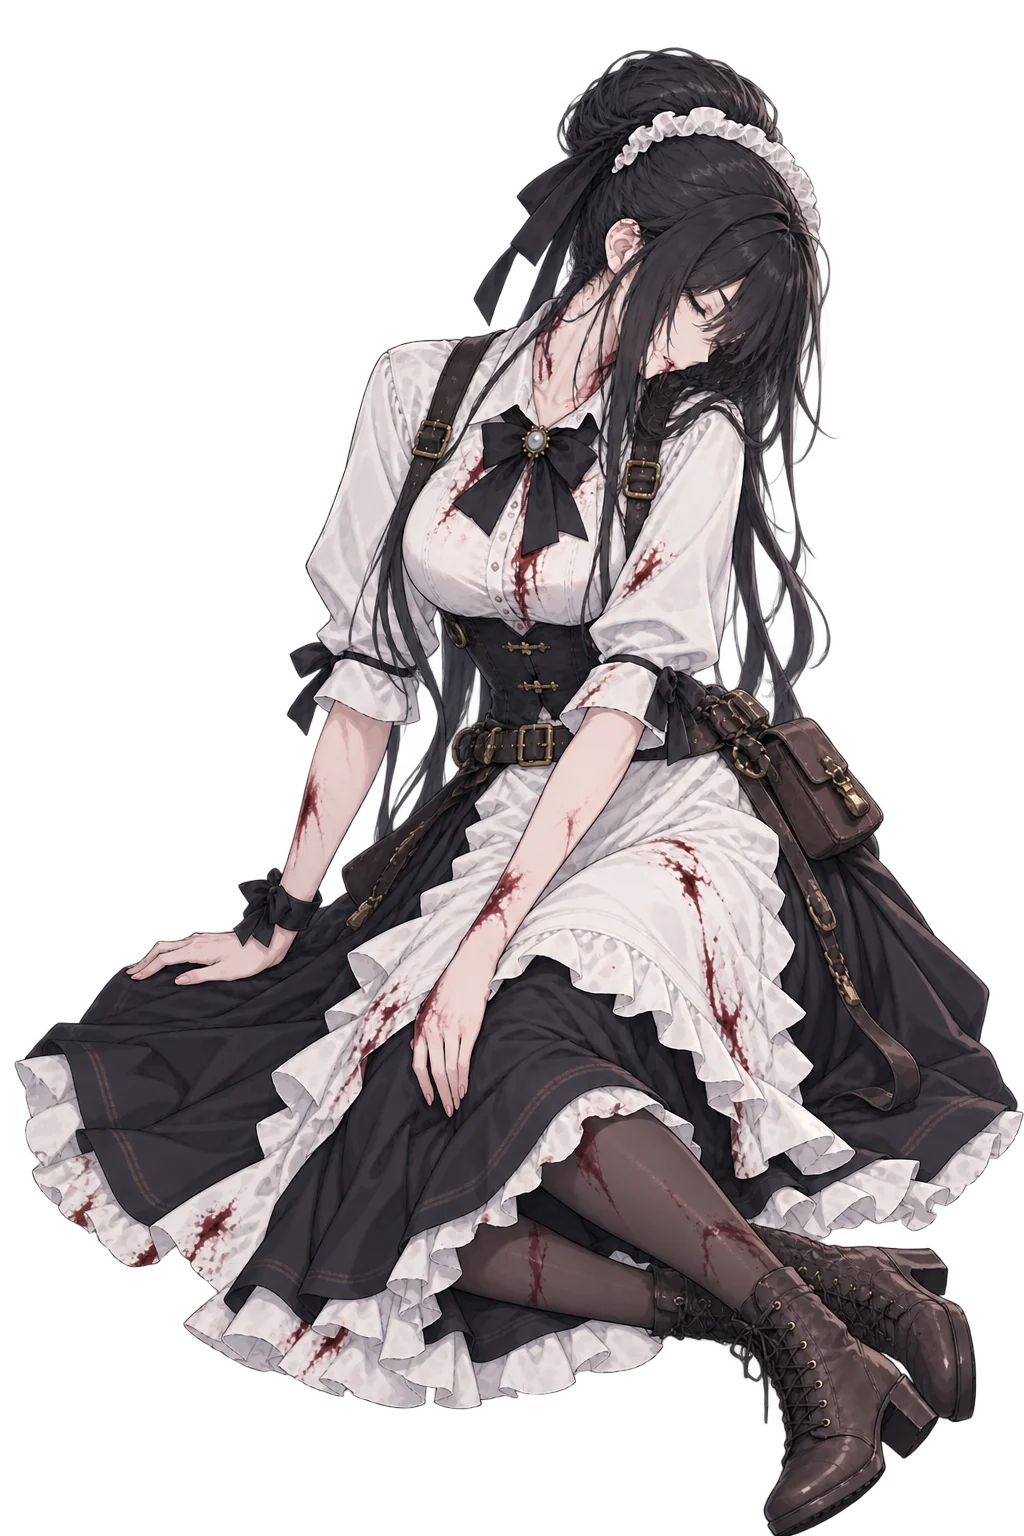
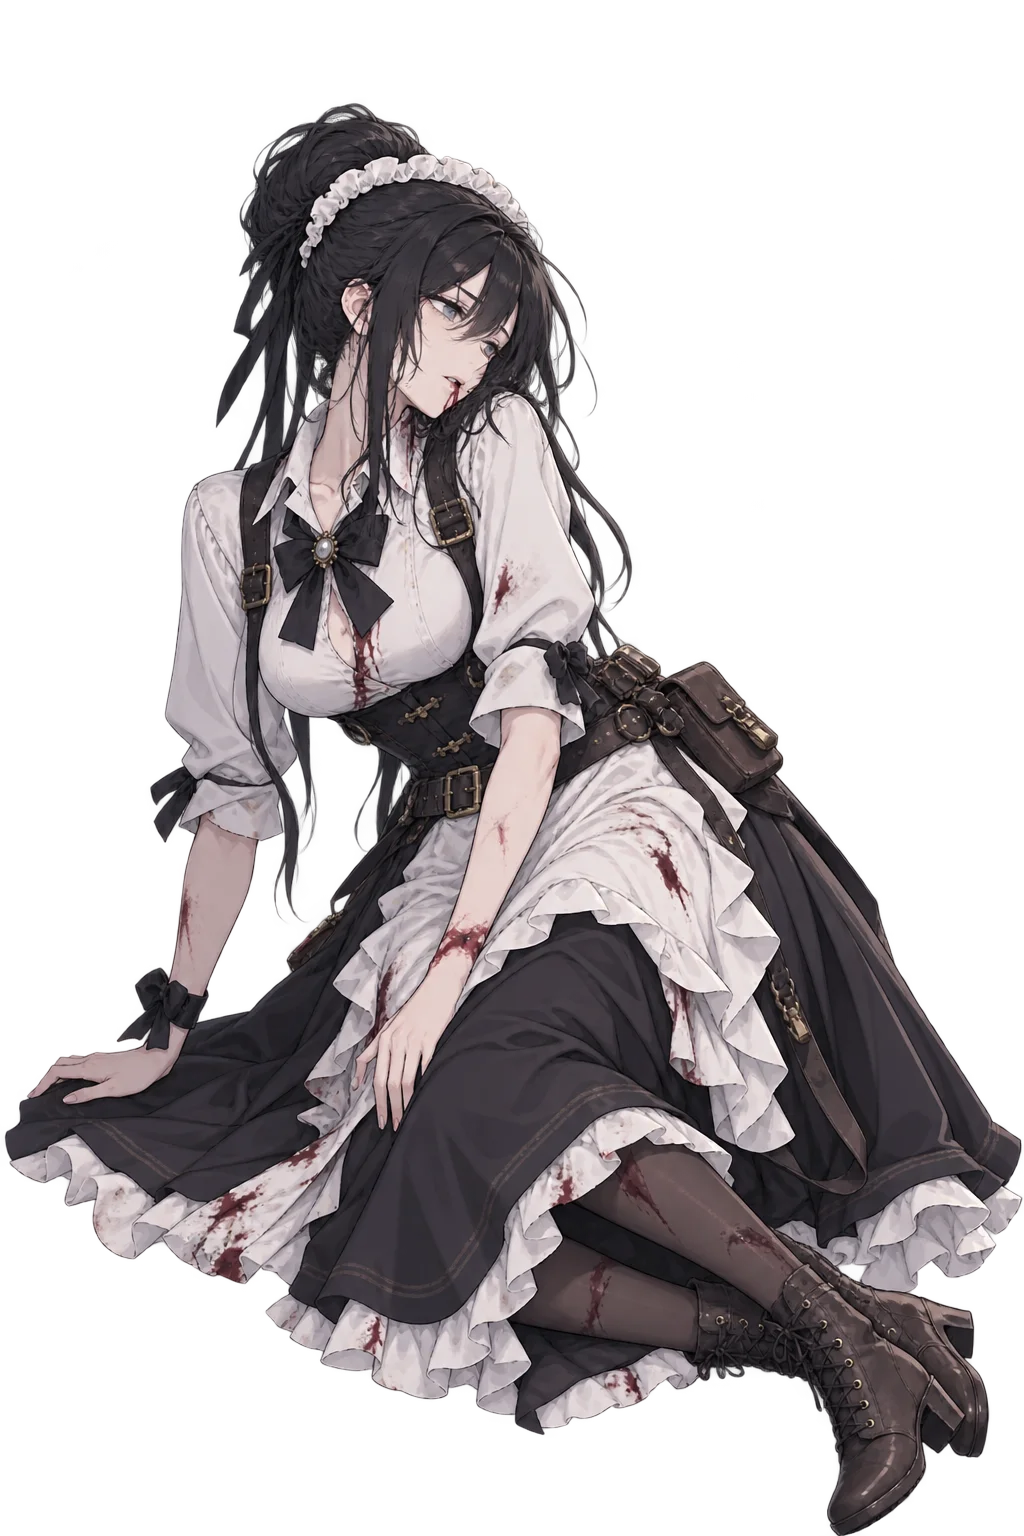
feat: 降臨的著地音（聖徒化音降 3 度）；娜塔莉立繪換圖重量並右上移 ver -641
Ray 三項：

1. **著地那一瞬播 `se_saint_install`，pitch 降 3 度**
   `SFX.play(src, vol, rate)` 新增第三個參數（WebAudio 的 `playbackRate`
   ——變速兼變調，對一次性音效正是要的：低 3 個半音同時慢一點，聽起來就是
   「同一個東西、更大更沉」）。半音→倍率的換算只有 `SFX.semitone()` 一支
   （鐵律 7），呼叫端寫「幾度」。⚠ 語音鏈不吃 rate（人聲變調會變成另一個人）。
   實測 `semitone(-3)` = 0.8409。

2. **娜塔莉立繪換圖** → 重量取景值。⚠ 兩張的數字**對調了**
   （`dying` 103/0.363、`dead` 47/0.657）—— 沿用舊值會歪一大截。

3. **再往右上移**：`standCm` 140→152（頭往上）、`fx` 量到 0.363 但填 0.300
   （填得比實測小＝整張圖往右移）。⚠ 這是刻意偏離實測值的位移，註解已寫明，
   日後重量那張圖要把 −0.063 補回去。

順帶修好並行 session 的改名（`se_saint_maxburst` → `vo_saint_maxburst`）：
ASSETS 的路徑、`fileGain` 的鍵都改了；`SE_FILES` 那一筆**移除** ——
那張表照 `vo_` 前綴推資料夾，而檔案還躺在 `se/`，列進去會 404
（它本來就在 `ASSETS.se_luna_mb`，開機那一批照樣預載得到）。

diff --git a/audio.js b/audio.js
@@ -166,9 +166,17 @@ function voiceChain(c, vol){
    被下面那個 `catch(e){}` **靜靜吞掉** → **所有音效整個不見**（Ray 回報，ver -399 修）。
    ⚠ 那個空的 catch 是刻意的（音效壞掉不該讓遊戲停），但它也會把這種低級錯誤藏起來
      —— 動這一支之後**一定要真的聽一次**，不要只看 console。 */
-function playBuffer(c, buf, vol, voice, handle, src){
+/* ⚠⚠ `rate` ＝**播放倍率**（ver -641，Ray：「pitch 調低 3 度」）。
+   WebAudio 的 `playbackRate` 是**變速兼變調**（沒有獨立的移調器）—— 對一次性的
+   音效來說那正是要的：低 3 個半音 ＝ `2^(-3/12)` ≈ 0.841，同時也慢一點，
+   聽起來就是「同一個東西、更大更沉」。
+   ⚠ 半音 → 倍率的換算只有 `SFX.semitone()` 一支（鐵律 7）：呼叫端寫「幾度」，
+     不要自己在各處算 2 的次方。
+   ⚠ 語音鏈那一支不吃 `rate`：人聲變調會變成另一個人。 */
+function playBuffer(c, buf, vol, voice, handle, src, rate){
   try{
     const s = c.createBufferSource(); s.buffer = buf;
+    if(rate>0 && rate!==1) s.playbackRate.value = rate;
     if(voice && _voice){
       const ch = voiceChain(c, vol);
       if(ch){ s.connect(ch.head); ch.tail.connect(busIn(c,'vo')); s.start(); return; }
@@ -190,21 +198,21 @@ const LATE_PLAY_MS = 1500;
 /* context 未 running（iOS 解鎖中/被中斷）時不盲目 s.start()——被排入的音源會卡到
  * 「下一次手勢 resume」才突然冒出（=延到下一幕才響）。改輪詢等 running，
  * LATE_PLAY_MS 內沒等到就放棄（遲到不亂響）。context 若中途重建，改用新 _ctx。 */
-function playWhenRunning(buf, vol, t0, voice, handle, src){
+function playWhenRunning(buf, vol, t0, voice, handle, src, rate){
   if(Date.now()-t0 > LATE_PLAY_MS) return;
   const c = _ctx; if(!c) return;
-  if(c.state === 'running'){ playBuffer(c, buf, vol, voice, handle, src); return; }
-  setTimeout(()=>playWhenRunning(buf, vol, t0, voice, handle, src), 60);
+  if(c.state === 'running'){ playBuffer(c, buf, vol, voice, handle, src, rate); return; }
+  setTimeout(()=>playWhenRunning(buf, vol, t0, voice, handle, src, rate), 60);
 }
 
 // 播放音檔（src＝已解析路徑）。已解碼→立即播；未解碼→限時補播（逾時放棄）。null/空→靜默略過。
-function playSrc(src, vol, voice, handle){
+function playSrc(src, vol, voice, handle, rate){
   if(!src) return;
   if(!ctx()) return;
   const t0 = Date.now();
   const buf = _buffers[src];
-  if(buf){ playWhenRunning(buf, vol, t0, voice, handle, src); return; }
-  load(src).then(b => { if(b) playWhenRunning(b, vol, t0, voice, handle, src); });
+  if(buf){ playWhenRunning(buf, vol, t0, voice, handle, src, rate); return; }
+  load(src).then(b => { if(b) playWhenRunning(b, vol, t0, voice, handle, src, rate); });
 }
 
 let _shots = [];    // 普攻槍聲候選（已解析路徑，隨機播一支）
@@ -388,7 +396,9 @@ export const SFX = {
   preloadBgm(srcs){ return Promise.all((srcs || []).filter(Boolean).map(ensureBlob)); },
 
   // 播放音檔（src＝已解析路徑）。每次 new source → 可自由重疊、不限制、不打斷前一個。
-  play(src, vol){ playSrc(src, vol); },
+  play(src, vol, rate){ playSrc(src, vol, false, null, rate); },
+  /* 半音 → 播放倍率（ver -641）。負數＝降。⚠ 換算只有這一支（鐵律 7）。 */
+  semitone(n){ return Math.pow(2, (n||0)/12); },
   /* 播一支**可中止**的音效，回傳把手：`.stop(fadeMs)` 收掉它。
      用途：演出用的機械聲（Kerberos 的齒輪）必須跟著動畫收尾，不能自己響完 ——
      素材 6.9 秒、動畫只有 1.6 秒，不收的話門都開完了齒輪還在轉。

diff --git a/config.js b/config.js
@@ -21,7 +21,7 @@ import { ART } from './script/speakers.js';
  *     以為是快取卡住 —— 版本號不動就等於沒有版本號）。
  *  ⚠ 它同時是**暖開機戳記的鑰匙**（main.js 的 `WARM_BOOT`）：版本一變，
  *    上一版的戳記就失效 → 下一次開機重跑完整讀取。那正是改版後該有的行為。 */
-export const VERSION = 'ver 2026.08.31-640';
+export const VERSION = 'ver 2026.08.31-641';
 
 export const GAME_CONFIG = {
 
@@ -1816,7 +1816,7 @@ export const GAME_CONFIG = {
       se_enemy_revolver:0.732, se_enemy_dagger:3.959, se_enemy_centipi:1.272,
       se_enemy_saintroar:2.910,
       /* ── 聖徒化／搭檔 ── */
-      se_saint_install:1.059, se_saint_maxburst:0.955, vo_lunamg:2.066,   // se_lunaMG → vo_lunaMG（Ray 改名，ver -508）
+      se_saint_install:1.059, vo_saint_maxburst:0.955, vo_lunamg:2.066,   // se_lunaMG → vo_lunaMG（Ray 改名，ver -508）；se_saint_maxburst → vo_saint_maxburst（ver -641）
       /* ── UI ── */
       se_ui_click:4.750, se_ui_kagurabell:2.530, se_ui_pageflip:2.359,
       se_ui_sortie:1.184, se_ginclick:1.106, se_metalclip:1.139,
@@ -2092,7 +2092,10 @@ export const ASSETS = {
      -475 曾暫借馬季諾的高裝藥彈語音，正主到了。檔名照規約轉小寫（靜態空間分大小寫）。 */
   vo_dual_torsten:   "resources/audio/vo/vo_torsten_dualcrush.m4a",
   se_luna_exc:       "resources/audio/vo/vo_luna_execution.m4a",    // 處決 EXSECUTIŌ cut-in
-  se_luna_mb:        "resources/audio/se/se_saint_maxburst.m4a",     // Maximum Burst cut-in
+  /* ⚠ ver -641 改名 `se_saint_maxburst` → `vo_saint_maxburst`（它是語音）。
+     ⚠ **檔案還躺在 `se/`**（同 `vo_lunaMG` 那一筆，等 Ray 點頭再搬 `vo/`）——
+       所以路徑照實寫，不要照 `vo_` 前綴推資料夾。 */
+  se_luna_mb:        "resources/audio/se/vo_saint_maxburst.m4a",     // Maximum Burst cut-in
   se_luna_obe:       "resources/audio/vo/vo_luna_obe.m4a",    // O.B.E. cut-in
 
   // 敵人攻擊音（依攻擊種類 kind：ult 大絕命中/不完美防禦格擋、delay 太慢、wrong 按錯）。

diff --git a/script/speakers.js b/script/speakers.js
@@ -273,9 +273,16 @@ export const ART = {
      `standCm` 管**頭頂高度**（140：她坐在地上，頭比站著的人低一截）。
      ⚠ 照真人比例（坐姿頭頂約 100cm）會把她整個推到對話框底下 —— 這個舞台
        只看得到站姿的上面約六成。140 是「看得見、又明顯比別人低」的折衷。 */
-  natalia:{ cm:150, standCm:140, eye:0, fx:0.657, top:47, bot:1535,
+  /* ⚠ ver -641 換過圖並**重量**：兩張的數字與上一版對調了（`dying` 103/0.363、
+     `dead` 47/0.657）—— §5「換圖一定要重量取景值」，沿用舊值會歪一大截。
+     ⚠⚠ `standCm` 140 → **152**、`fx` **量到 0.363 但填 0.300**（Ray：「娜塔莉再往
+       右上移一些」）：`standCm` 抬高＝頭往上；`fx` 是「臉在圖上的位置」，
+       **填得比實測小＝整張圖往右移**（錨點固定在畫面左 24%，臉越靠左圖就被推得越右）。
+       ⚠ 這是**刻意偏離實測值的一個位移**，不是量錯 —— 日後重量這張圖時
+         記得把這 −0.063 的位移補回去，不然她會跳回原位。 */
+  natalia:{ cm:150, standCm:152, eye:0, fx:0.300, top:103, bot:1535,
            side:'L', alt:null, base:'resources/SI/NPC_Natalia_SI_dying.webp', expr:{
-    dead: { src:'resources/SI/NPC_Natalia_SI_dead.webp', top:103, bot:1535, fx:0.363 },
+    dead: { src:'resources/SI/NPC_Natalia_SI_dead.webp', top:47, bot:1535, fx:0.594 },
   } },
   /* 璐娜：戰鬥搭檔，劇情立繪尚未指定 —— 先指 cut-in 圖，數字**沒有量過**。
      ⚠ 真的要讓她在劇情裡站台，top/bot/fx 一定要重量（cut-in 是胸像構圖，

diff --git a/modules/enemy.js b/modules/enemy.js
@@ -14,7 +14,7 @@
  * ========================================================================== */
 
 import * as clock from '../script/clock.js';   // 立繪的時段差分（ver -423）
-import { GAME_CONFIG, asset } from '../config.js';
+import { GAME_CONFIG, asset, sfxGain } from '../config.js';
 import { state, initEnemyHp } from '../state.js';
 import { SFX } from '../audio.js';
 
@@ -225,6 +225,12 @@ export function loadEnemyPortrait(en){
          改一邊要改另一邊（鐵律 7 的但書，兩邊註解互指）。 */
     clearTimeout(landT);
     landT=setTimeout(()=>{
+      /* 著地的聲音（ver -641，Ray：「怪降下的那一瞬用 se_saint_install，pitch 調低 3 度」）。
+         ⚠ 借聖徒化那一支 —— 降 3 個半音之後它不再是「聖光降臨」而是「某個沉重的
+           東西落地」，同一個世界的聲音、不同的來者。
+         ⚠ 換算走 `SFX.semitone()`（鐵律 7），不要在這裡寫 2 的次方。
+         ⚠ 增益仍問 `sfxGain`（全域響度階層，§6.6）—— 變調不改響度。 */
+      SFX.play(asset('sfx_saint'), sfxGain('sfx_saint'), SFX.semitone(-3));
       if(api.screenShake) api.screenShake();
       const top=$('top');
       if(top){

diff --git a/modules/story.js b/modules/story.js
@@ -971,7 +971,10 @@ const SE_FILES=[
   'se_flight_seagull.m4a', 'se_flight_train.mp3', 'vo_lunaMG.m4a', 'se_punch.m4a',
   'se_brickcrush.m4a',                                       // 瓦礫崩落（北方泊地教堂，ver -624）
   'se_earthquake.m4a',                                       // 地鳴（教堂那一拍的震動，ver -636）
-  'se_saint_install.m4a', 'se_saint_maxburst.m4a', 'se_steps.m4a', 'se_ui_click.m4a',
+  /* ⚠ `se_saint_maxburst` 於 ver -641 改名成 `vo_saint_maxburst`，而它**還躺在 `se/`**
+     —— 這張表是照 `vo_` 前綴推資料夾的，列進來會指到 `vo/` 而 404。
+     它本來就在 `ASSETS.se_luna_mb`（開機那一批照樣預載得到），所以這裡直接不列。 */
+  'se_saint_install.m4a', 'se_steps.m4a', 'se_ui_click.m4a',
   'se_ginclick.m4a', 'Se_Tummy.m4a', 'se_metalclip.m4a', 'se_SailorShout.mp3',
   'se_ui_kagurabell.m4a', 'se_ui_pageflip.m4a', 'se_ui_sortie.m4a', 'se_walk.m4a',
   'se_weapon_guard.m4a', 'se_weapon_mg_squall.m4a', 'se_weapon_pistol_01.m4a',
